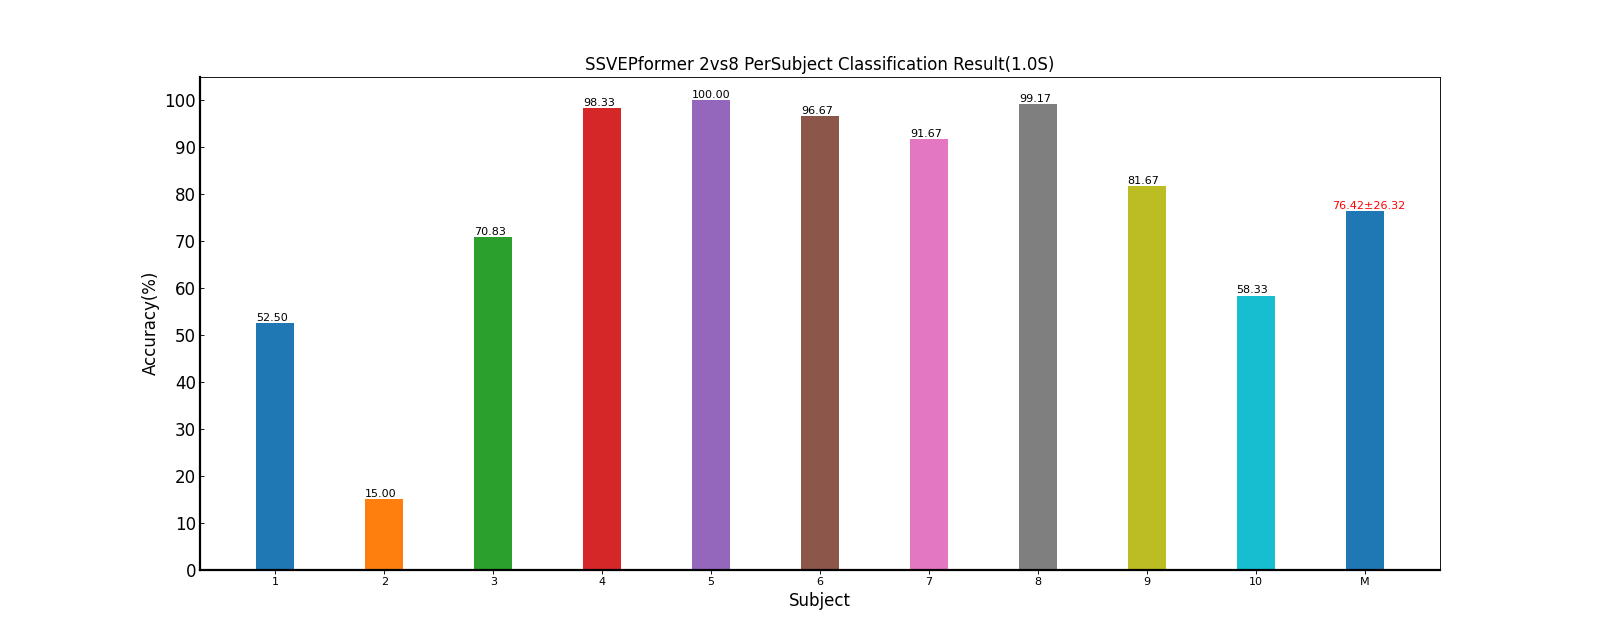
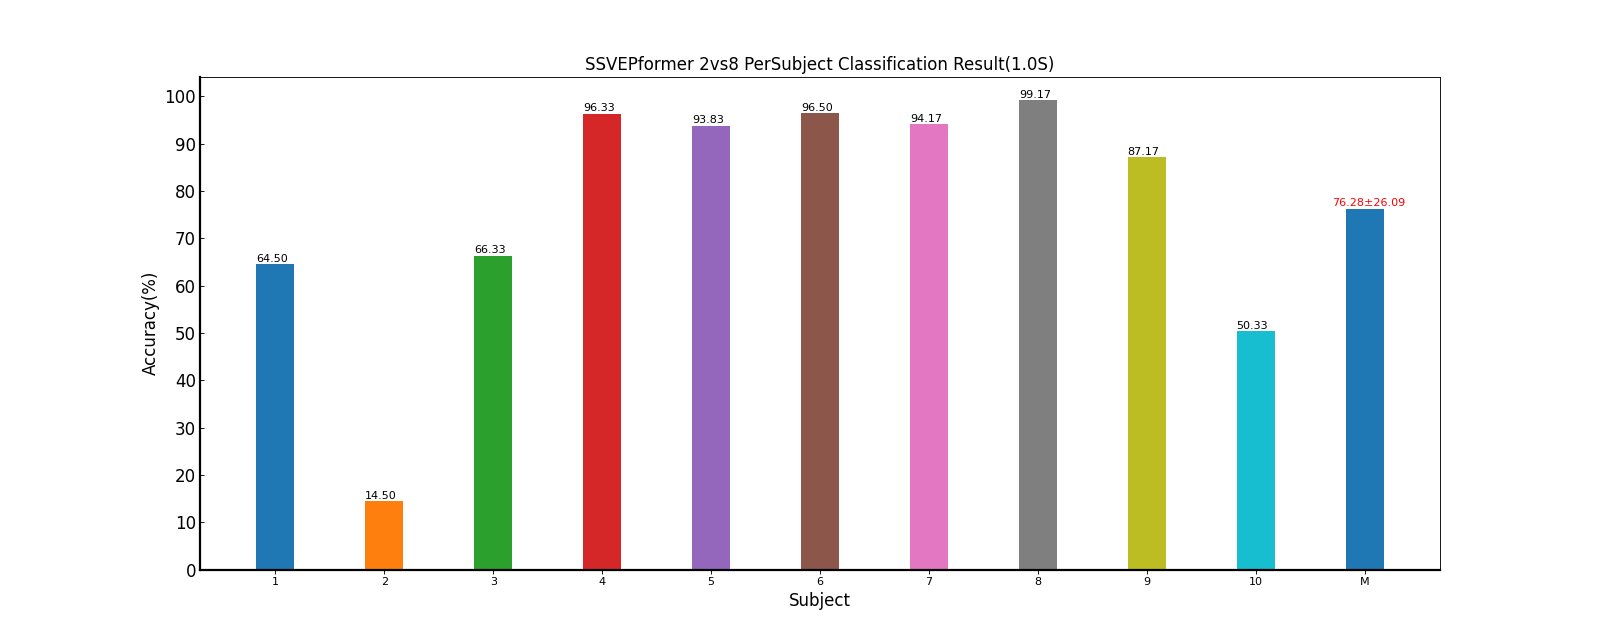
update files

diff --git a/Test/Classifier_Test.py b/Test/Classifier_Test.py
@@ -1,70 +1,80 @@
 # Designer:Ethan Pan
 # Coder:God's hand
 # Time:2024/1/30 17:16
+import sys
+
+sys.path.append('../')
 import torch
 import Utils.EEGDataset as EEGDataset
 from Utils import Ploter
 from Train import Classifier_Trainer, Trainer_Script
 from etc.global_config import config
 
-# 1、Define parameters of eeg
-algorithm = config['algorithm']
-print(f"{'*' * 20} Current Algorithm usage: {algorithm} {'*' * 20}")
 
-'''Parameters for training procedure'''
-Kf = config["train_param"]['Kf']
-UD = config["train_param"]['UD']
-ratio = config["train_param"]['ratio']
+def run():
+    # 1、Define parameters of eeg
+    algorithm = config['algorithm']
+    print(f"{'*' * 20} Current Algorithm usage: {algorithm} {'*' * 20}")
 
-'''Parameters for ssvep data'''
-ws = config["data_param"]["ws"]
-Nh = config["data_param"]['Nh']
-Nc = config["data_param"]['Nc']
-Fs = config["data_param"]['Fs']
-Nf = config["data_param"]['Nf']
-Ns = config["data_param"]['Ns']
+    '''Parameters for training procedure'''
+    UD = config["train_param"]['UD']
+    ratio = config["train_param"]['ratio']
+    if ratio == 1 or ratio == 3:
+        Kf = 5
+    elif ratio == 2:
+        Kf = 2
 
-'''Parameters for DL-based methods'''
-epochs = config[algorithm]['epochs']
-bz = config[algorithm]['bz']
-lr = config[algorithm]['lr']
-wd = config[algorithm]['wd']
-lr_jitter = config[algorithm]['lr_jitter']
+    '''Parameters for ssvep data'''
+    ws = config["data_param"]["ws"]
+    Ns = config["data_param"]['Ns']
 
-devices = "cuda" if torch.cuda.is_available() else "cpu"
+    '''Parameters for DL-based methods'''
+    epochs = config[algorithm]['epochs']
+    lr_jitter = config[algorithm]['lr_jitter']
 
-# 2、Start Training
-final_acc_list = []
-for fold_num in range(Kf):
-    final_test_acc_list = []
-    print(f"Training for K_Fold {fold_num + 1}")
-    for testSubject in range(1, Ns + 1):
-        # **************************************** #
-        '''12-class SSVEP Dataset'''
-        # -----------Intra-Subject Experiments--------------
-        # EEGData_Train = EEGDataset.getSSVEP12Intra(subject=testSubject, KFold=fold_num, n_splits=opt.Kf,
-        #                                           mode='test')
-        # EEGData_Test = EEGDataset.getSSVEP12Intra(subject=testSubject, KFold=fold_num, n_splits=opt.Kf,
-        #                                          mode='train')
+    devices = "cuda" if torch.cuda.is_available() else "cpu"
 
-        EEGData_Train = EEGDataset.getSSVEP12Intra(subject=testSubject, train_ratio=0.2, mode='train')
-        EEGData_Test = EEGDataset.getSSVEP12Intra(subject=testSubject, train_ratio=0.2, mode='test')
+    # 2、Start Training
+    final_acc_list = []
+    for fold_num in range(Kf):
+        final_test_acc_list = []
+        print(f"Training for K_Fold {fold_num + 1}")
+        for testSubject in range(1, Ns + 1):
+            # **************************************** #
+            '''12-class SSVEP Dataset'''
+            # -----------Intra-Subject Experiments--------------
+            EEGData_Train = EEGDataset.getSSVEP12Intra(subject=testSubject, KFold=fold_num, n_splits=Kf,
+                                                       mode='train')
+            EEGData_Test = EEGDataset.getSSVEP12Intra(subject=testSubject, KFold=fold_num, n_splits=Kf,
+                                                      mode='test')
 
-        # -----------Inter-Subject Experiments--------------
-        # EEGData_Train = EEGDataset.getSSVEP12Inter(subject=testSubject, mode='train')
-        # EEGData_Test = EEGDataset.getSSVEP12Inter(subject=testSubject, mode='test')
+            if ratio == 3:
+                Temp = EEGData_Train
+                EEGData_Train = EEGData_Test
+                EEGData_Test = Temp
 
-        eeg_train_dataloader, eeg_test_dataloader = Trainer_Script.data_preprocess(EEGData_Train, EEGData_Test)
+            # EEGData_Train = EEGDataset.getSSVEP12Intra(subject=testSubject, train_ratio=0.2, mode='train')
+            # EEGData_Test = EEGDataset.getSSVEP12Intra(subject=testSubject, train_ratio=0.2, mode='test')
 
-        # Define Network
-        net, criterion, optimizer = Trainer_Script.build_model(devices)
-        test_acc = Classifier_Trainer.train_on_batch(epochs, eeg_train_dataloader, eeg_test_dataloader, optimizer, criterion,
-                                                      net, devices, lr_jitter=lr_jitter)
-        final_test_acc_list.append(test_acc)
+            # -----------Inter-Subject Experiments--------------
+            # EEGData_Train = EEGDataset.getSSVEP12Inter(subject=testSubject, mode='train')
+            # EEGData_Test = EEGDataset.getSSVEP12Inter(subject=testSubject, mode='test')
 
-    final_acc_list.append(final_test_acc_list)
+            eeg_train_dataloader, eeg_test_dataloader = Trainer_Script.data_preprocess(EEGData_Train, EEGData_Test)
+
+            # Define Network
+            net, criterion, optimizer = Trainer_Script.build_model(devices)
+            test_acc = Classifier_Trainer.train_on_batch(epochs, eeg_train_dataloader, eeg_test_dataloader, optimizer,
+                                                         criterion,
+                                                         net, devices, lr_jitter=lr_jitter)
+            final_test_acc_list.append(test_acc)
+
+        final_acc_list.append(final_test_acc_list)
+
+    # 3、Plot Result
+    Ploter.plot_save_Result(final_acc_list, model_name=algorithm, dataset='DatasetA', UD=UD, ratio=ratio,
+                            win_size=str(ws), text=True)
 
 
-# 3、Plot Result
-Ploter.plot_save_Result(final_acc_list, model_name=algorithm, dataset='DatasetA', UD=UD, ratio=ratio, win_size=str(ws),
-                        text=True)
+if __name__ == '__main__':
+    run()

diff --git a/Train/Trainer_Script.py b/Train/Trainer_Script.py
@@ -5,8 +5,8 @@ import numpy as np
 import torch
 from torch import nn
 from Model import EEGNet, CCNN, SSVEPNet, FBtCNN, ConvCA, SSVEPformer
-from etc.global_config import config
 from Utils import Constraint, LossFunction, Script
+from etc.global_config import config
 
 def data_preprocess(EEGData_Train, EEGData_Test):
     '''
